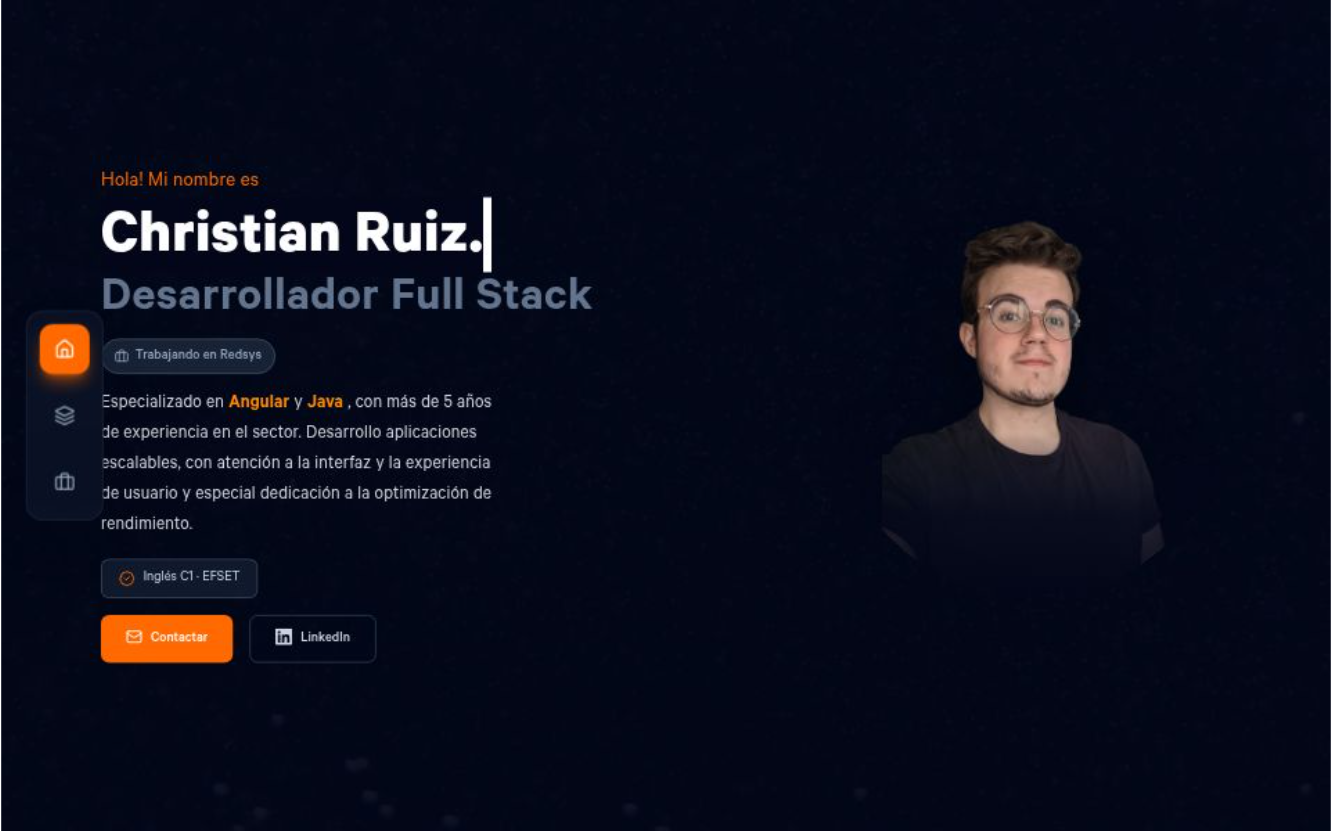
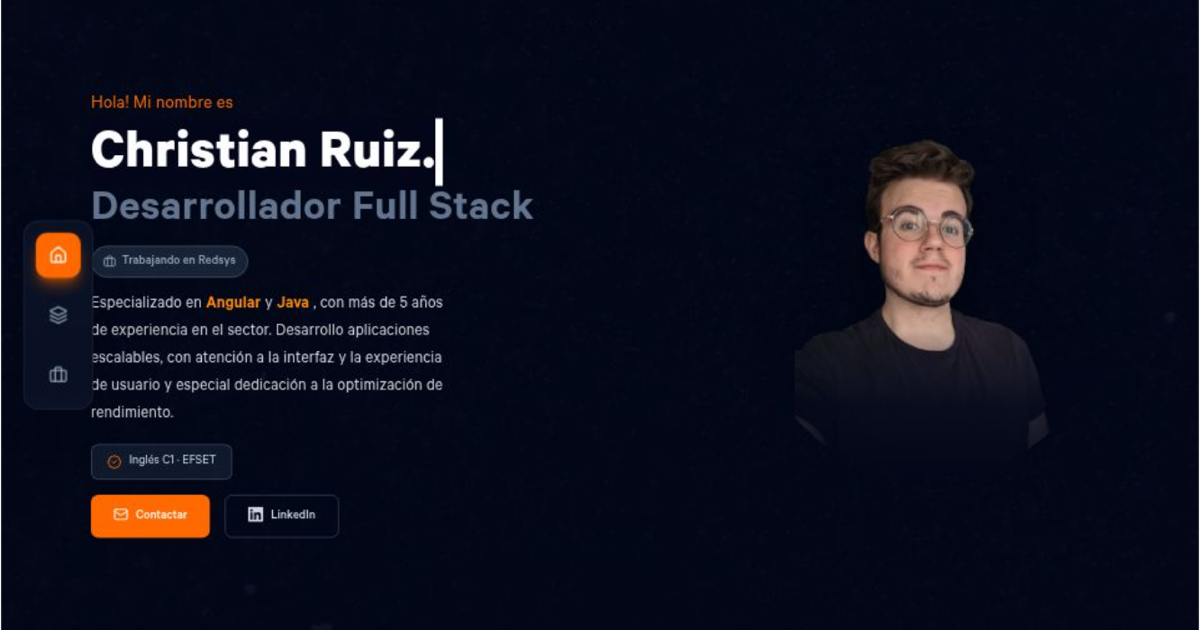
Update site title and social image dimensions for enhanced sharing previews

Changed region(s): [[0.0308, 0.1508, 0.4625, 0.8746], [0.7092, 0.2111, 0.8325, 0.4825], [0.74, 0.5127, 0.8017, 0.573]]

diff --git a/src/data/site.ts b/src/data/site.ts
@@ -1,12 +1,13 @@
 export const site = {
-  title: "Christian Ruiz | Desarrollador Full Stack",
+  // ~50–60 caracteres: mejor para previews en redes (LinkedIn, etc.)
+  title: "Christian Ruiz | Desarrollador Full Stack · Angular & Java",
   description:
     "Desarrollador Full Stack (Angular, Java, Spring Boot). Más de 5 años construyendo productos escalables. Portfolio, experiencia y stack — Christian Ruiz.",
   siteName: "Christian Ruiz",
   /** Imagen horizontal para previews al compartir (Open Graph / Twitter). Mín. recomendado ~1200×630. */
   socialImage: "/assets/images/preview.png",
-  socialImageWidth: 1280,
-  socialImageHeight: 720,
+  socialImageWidth: 1200,
+  socialImageHeight: 630,
   socialImageAlt:
     "Vista del portfolio de Christian Ruiz, desarrollador Full Stack",
   /** Foto de perfil (schema.org Person, UI). */
